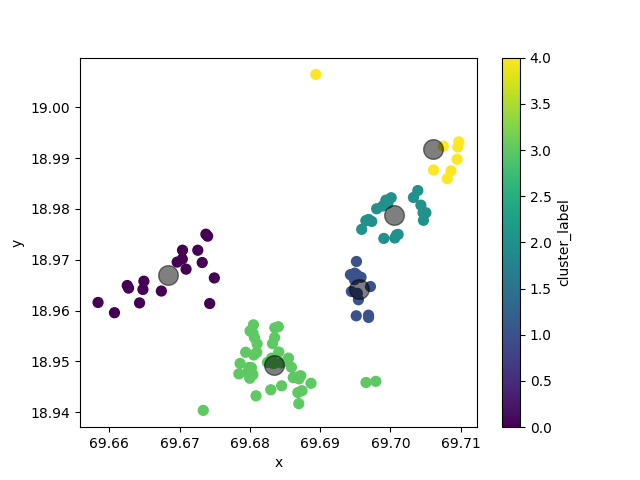
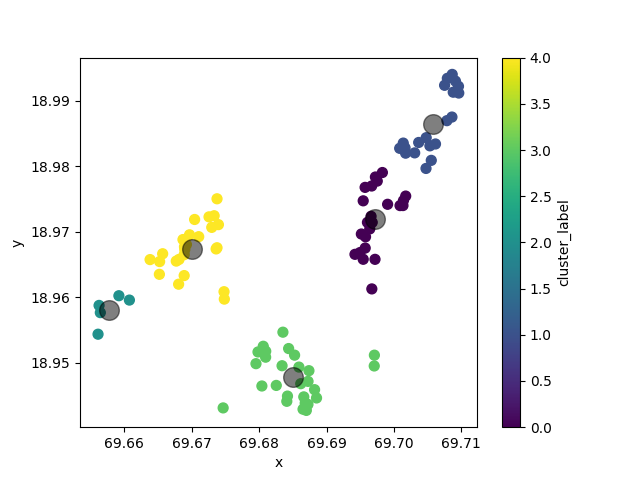
Modified plots

diff --git a/src/main.py b/src/main.py
@@ -23,14 +23,14 @@ def run(args):
         clus.loc[len(clus.index)] = [0,'Depot', 69.71059355829574, 19.01346092171551, None, i]
         # print(clus)
 
-        temp_clus, centers = utils.cluster(clus, (int(len(clus)/3)))
+        temp_clus, centers = utils.cluster(clus, (int(len(clus)/2.5)))
         temp_clus = temp_clus.sort_values(by=['inter_cluster_label'], ascending = True)
         print(temp_clus)
 
 
-        genes = [ga.Gene(row['USER_Akt_1'], row['y'], row['x'])
+        genes = [ga.Gene(row['USER_Akt_1'], row['y'], row['x'], row['inter_cluster_label'])
             for _, row in temp_clus.iterrows()]
-
+        print(genes)
         # sample_n = random.randint(4,np.round(len(clus))) #Ensuring sample_n changes each time
         sample_n = 0
 

diff --git a/src/pool.py b/src/pool.py
@@ -4,6 +4,7 @@ from time import time
 from random import random, randint, sample
 from haversine import haversine
 from tsp_ga import Individual
+from data import Gene
 
 
 
@@ -16,6 +17,7 @@ class Population:  # Population of individuals
         individuals = []
         for _ in range(sz):
             individuals.append(Individual(sample(genes, len(genes))))
+            # individuals.append(Individual(getattr(genes, 'inter_cluster_label')))
         return Population(individuals)
 
     def add(self, route):

diff --git a/src/data.py b/src/data.py
@@ -11,10 +11,11 @@ class Gene:  # City
     # keep distances from cities saved in a table to improve execution time.
     __distances_table = {}
 
-    def __init__(self, name, lat, lng):
+    def __init__(self, name, lat, lng, cluster):
         self.name = name
         self.lat = lat
         self.lng = lng
+        self.cluster = cluster
 
         
     def get_distance_to(self, dest):
